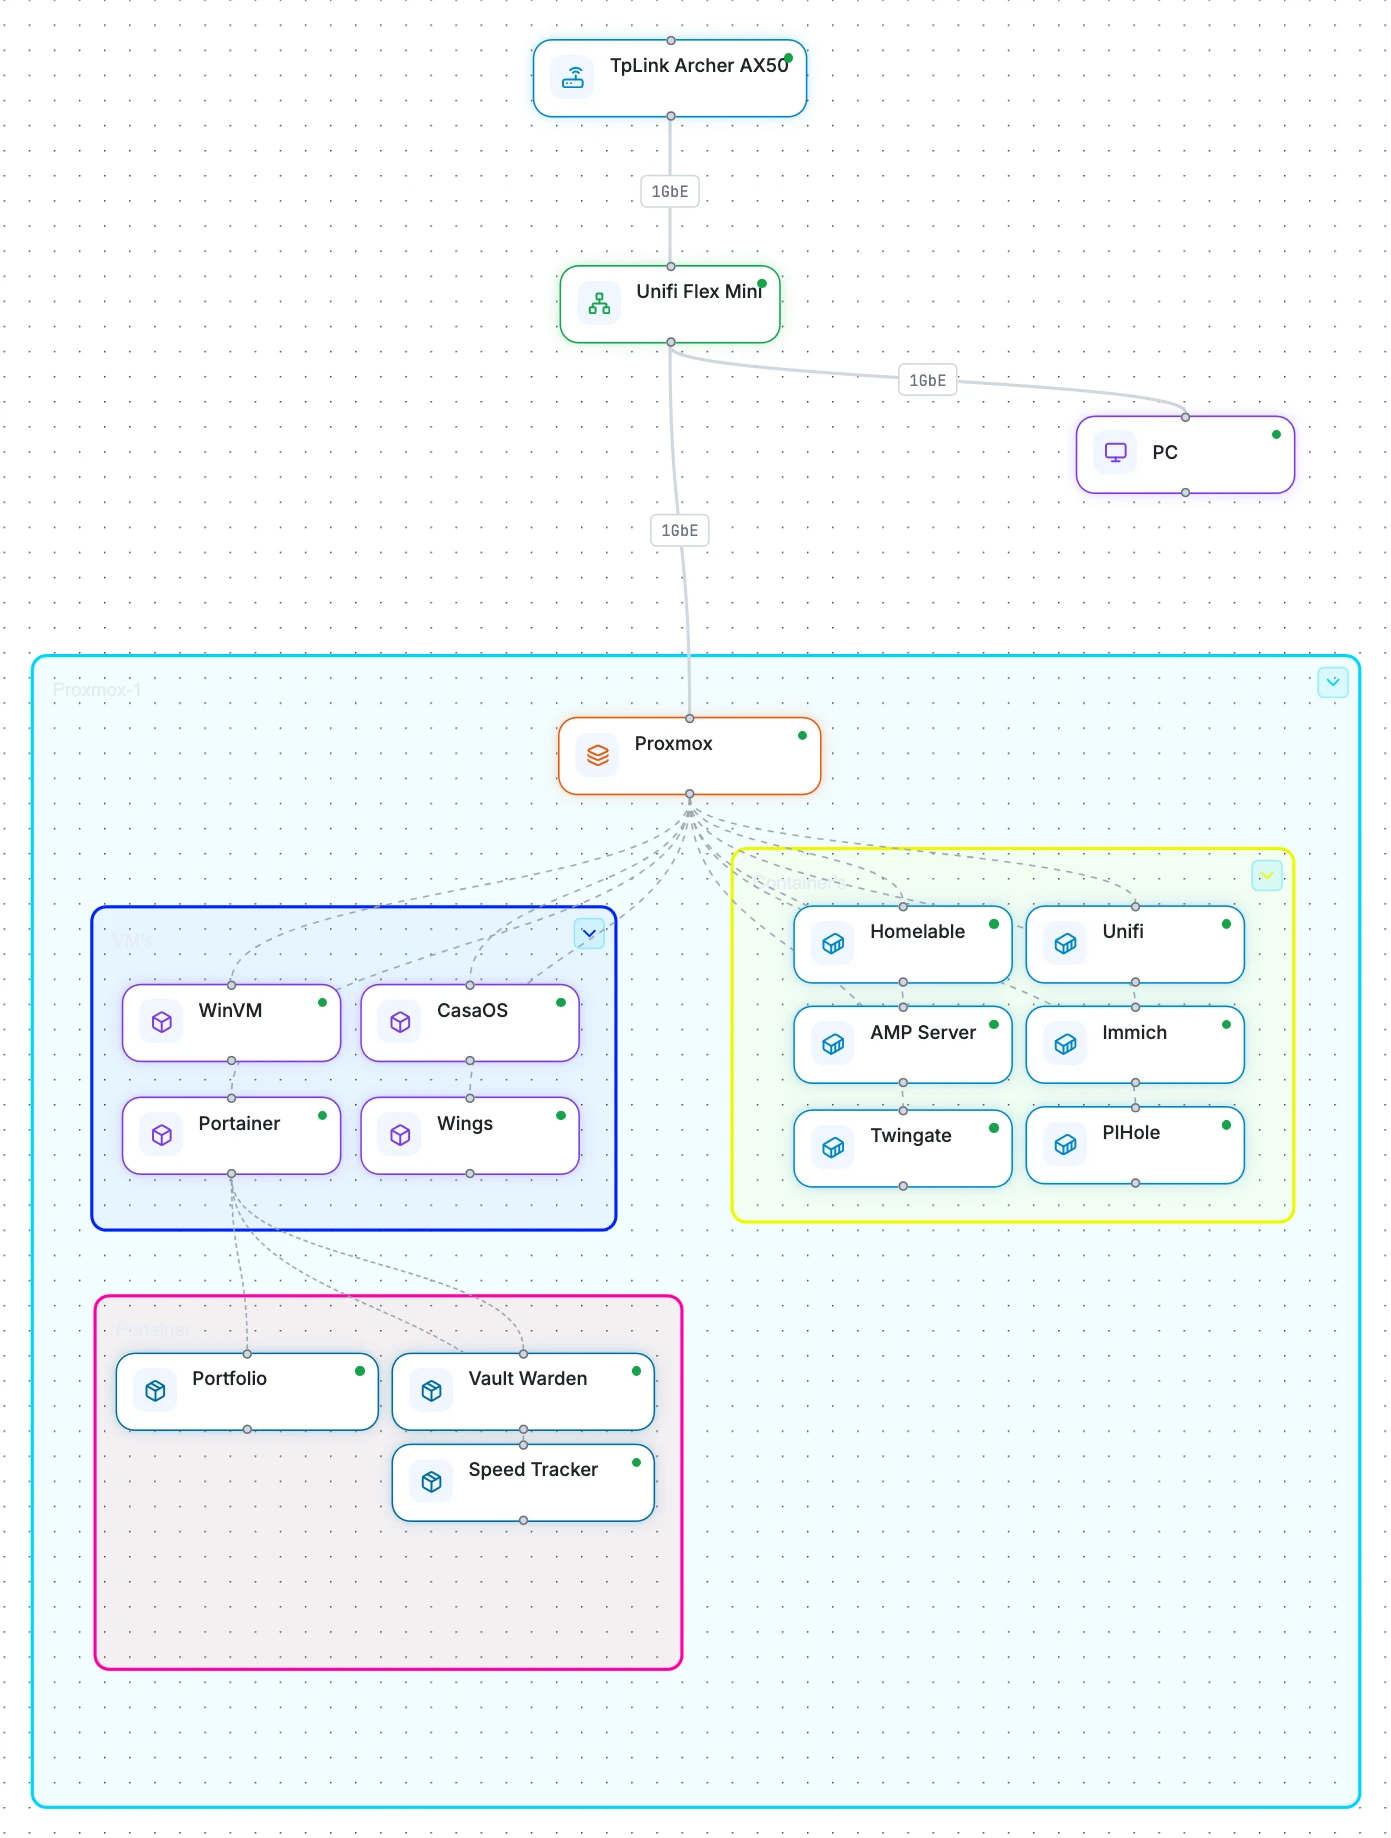
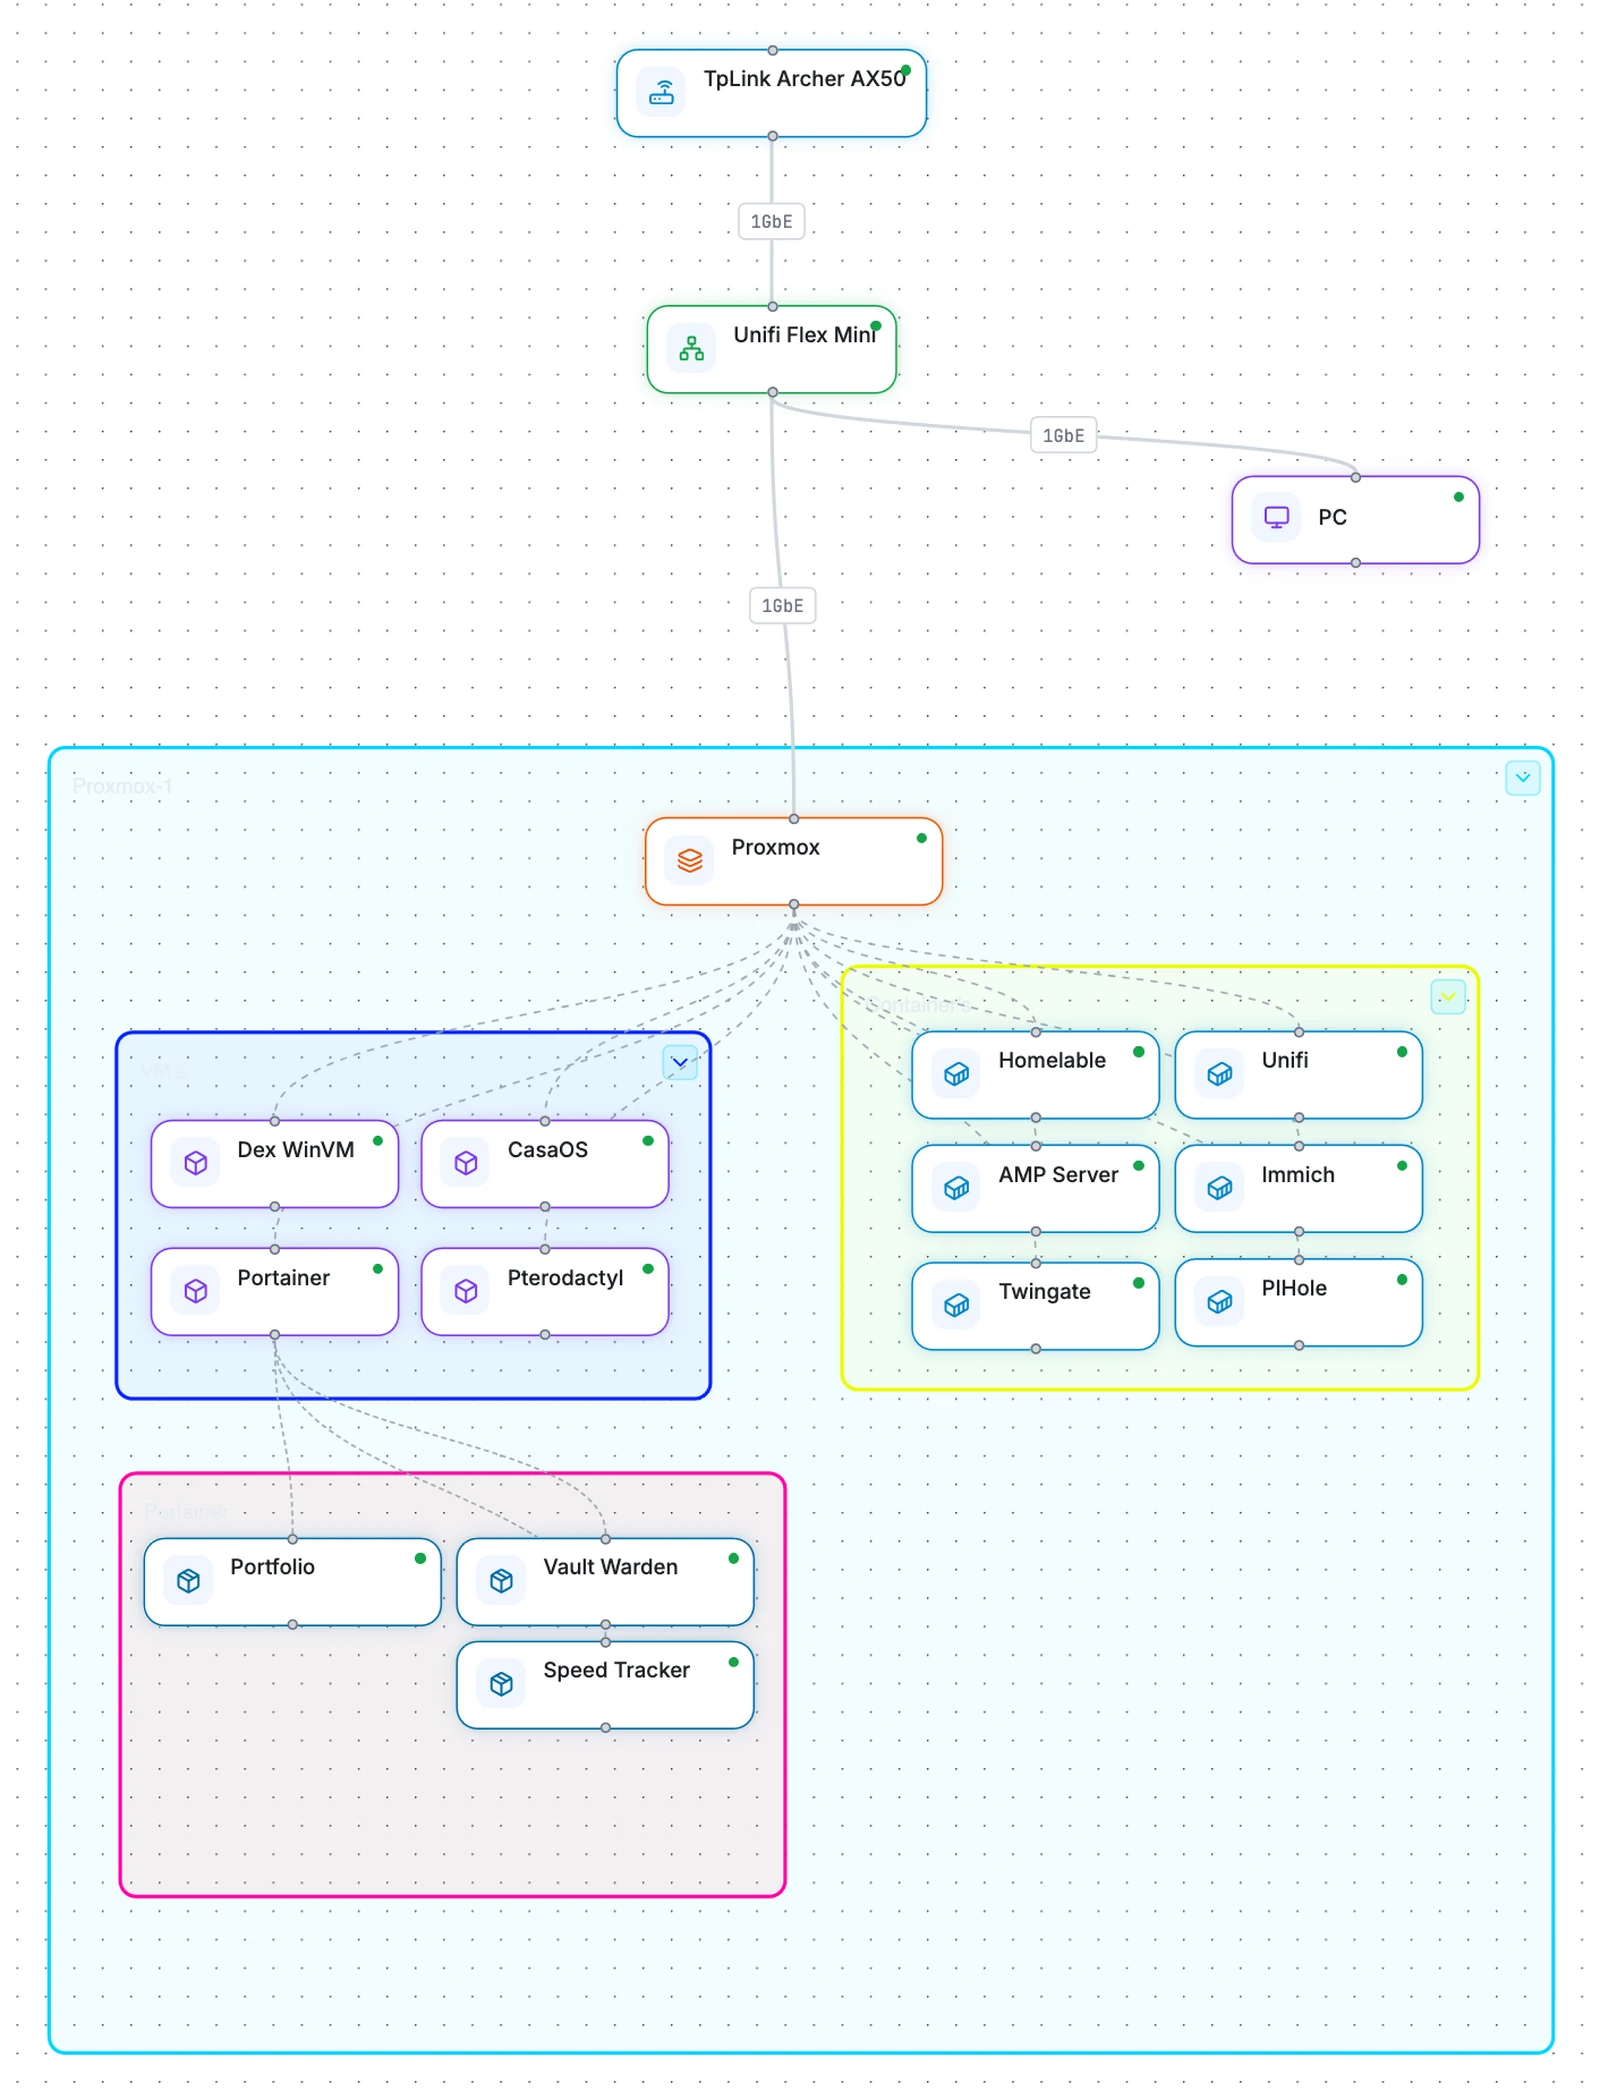
Redact the IPs from the homelab topology
The topology export shipped every node's LAN address, which is detail the
site has no reason to publish. Regenerate the diagram from the current
canvas with the address lines painted out, cropped to the diagram itself
rather than the surrounding empty canvas and editor chrome.

Also rename the Wings service to Pterodactyl, which is what the panel
actually is.

diff --git a/src/components/HomelabSection.vue b/src/components/HomelabSection.vue
@@ -58,8 +58,8 @@ onUnmounted(() => {
       <button type="button" class="thumb" @click="open">
         <img
           :src="topologyImage"
-          width="1391"
-          height="1838"
+          width="1600"
+          height="2090"
           loading="lazy"
           decoding="async"
           :alt="topologyAlt"

diff --git a/src/data.js b/src/data.js
@@ -110,7 +110,7 @@ export const homelab = {
     'Immich',
     'Portainer',
     'CasaOS',
-    'Wings',
+    'Pterodactyl',
     'Vaultwarden',
     'Homelable',
     'Speed Tracker',
